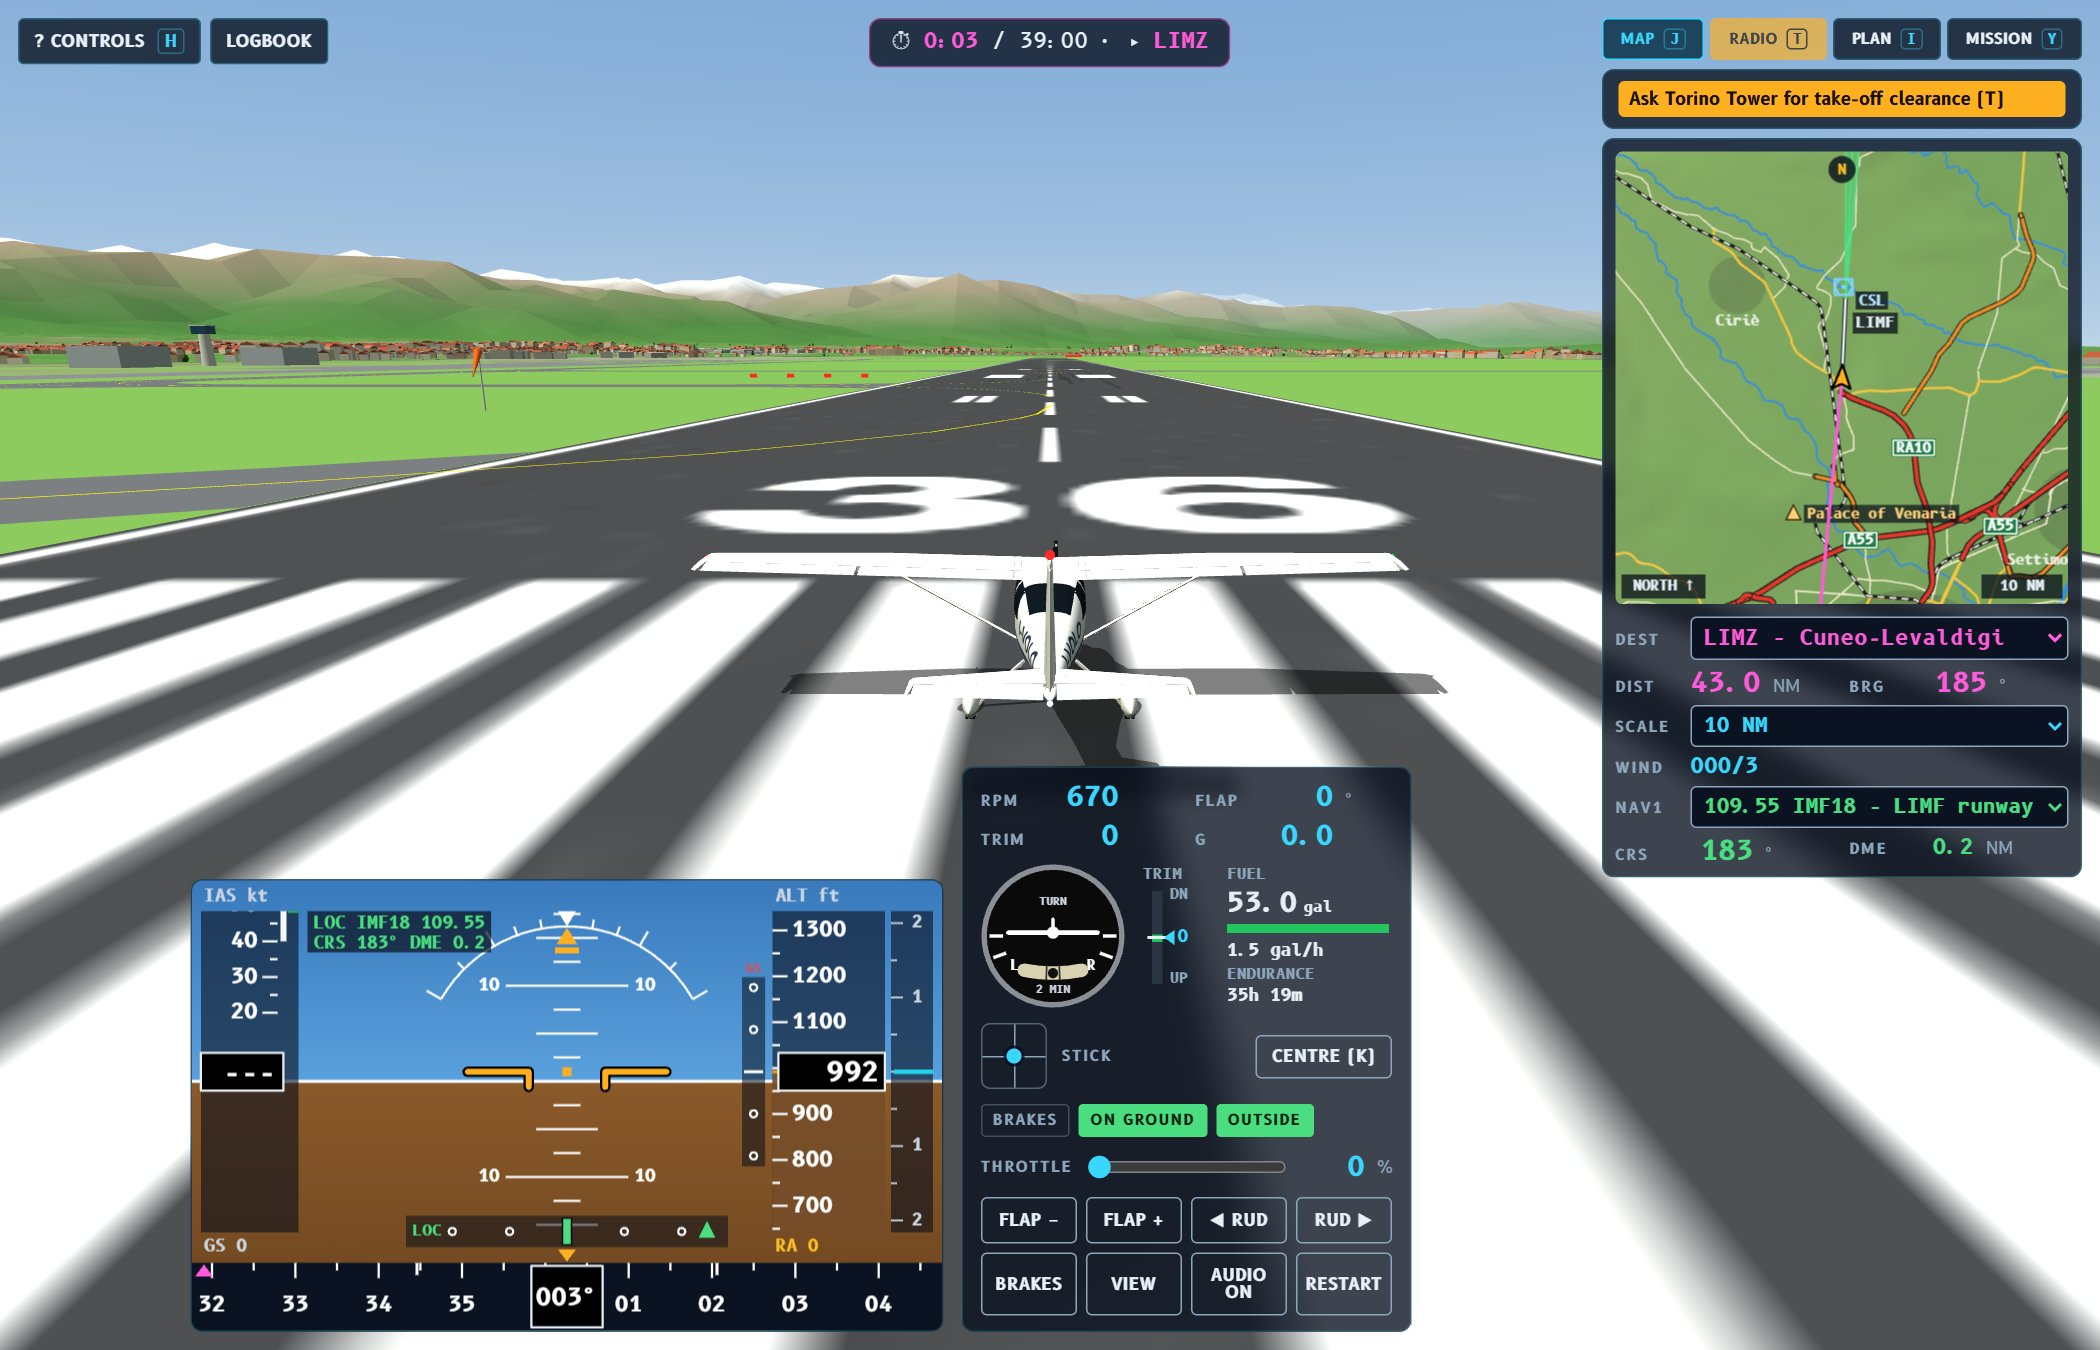
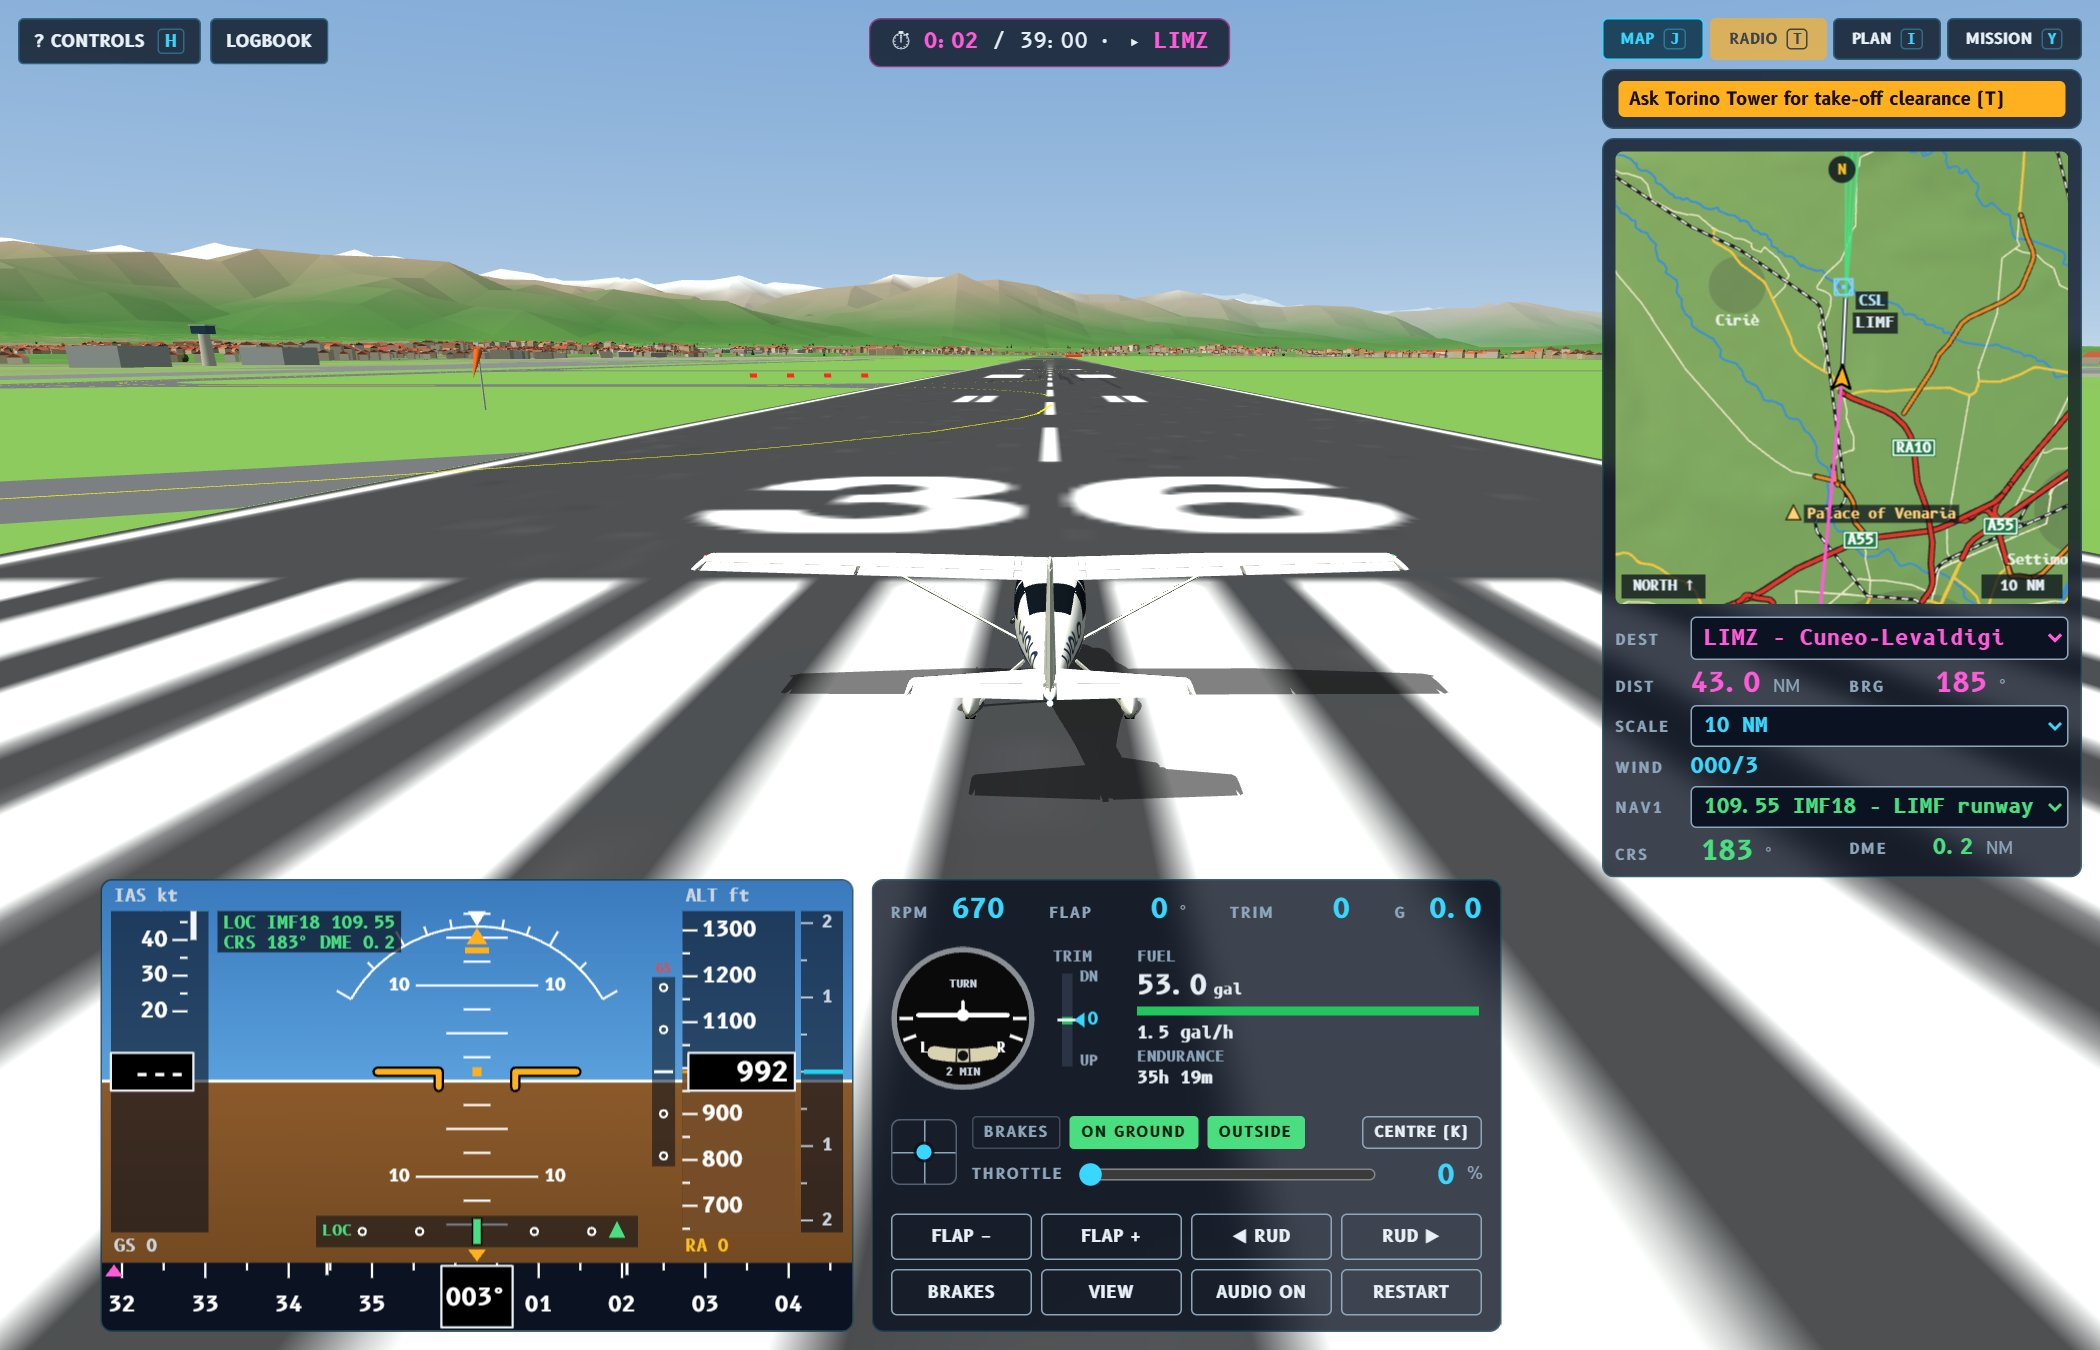
Pannello motore alto quanto il PFD
Il pannello in basso a destra del PFD diventa più largo e basso: giri, flap,
trim e g su una riga, poi virosbandometro, trim e carburante, la cloche
accanto a spie e manetta e gli 8 pulsanti su due file. PFD e pannello hanno
la stessa altezza (align-items: stretch); sugli schermi più stretti il PFD
si rimpicciolisce per lasciare posto al pannello. Immagini dei manuali
aggiornate.

Changed region(s): [[0.031, 0.56, 0.7429, 0.9956]]

diff --git a/css/stile.css b/css/stile.css
@@ -135,14 +135,20 @@ a.istr{display:inline-block;margin-top:8px;color:var(--cyan);font-weight:700;poi
 .msg b{color:var(--cyan)}
 
 /* fascia bassa */
-.basso{position:absolute;left:12px;right:12px;bottom:calc(12px + env(safe-area-inset-bottom,0px));display:flex;justify-content:center;align-items:flex-end;gap:12px;pointer-events:none}
+.basso{position:absolute;left:12px;right:12px;bottom:calc(12px + env(safe-area-inset-bottom,0px));display:flex;justify-content:center;align-items:stretch;gap:12px;pointer-events:none}
 .basso .hud{position:relative}
 /* sugli schermi larghi gli strumenti in basso stanno a sinistra della colonna di destra */
-@media (min-width:1170px){.basso{right:344px}}
-.pfdbox{padding:0;overflow:hidden}
+/* PFD e pannello motore alti uguali (align-items:stretch): il pannello è largo e basso */
+.pfdbox{padding:0;overflow:hidden;display:flex;align-items:center}
 #pfd{display:block;width:min(500px,calc(100vw - 24px));aspect-ratio:5/3;height:auto}
-.sys{display:grid;gap:10px;width:300px;pointer-events:auto}
-.sys .griglia{display:grid;grid-template-columns:1fr 1fr;gap:8px 12px}
+.sys{display:grid;gap:8px;width:420px;align-content:space-between;pointer-events:auto}
+.sys .griglia{display:grid;grid-template-columns:repeat(4,auto);justify-content:space-between;gap:8px 10px}
+.sys .griglia .lbl{min-width:0}
+.sys{flex:none}
+/* (dopo #pfd) sugli schermi larghi il PFD si stringe un po' se non c'è posto per tutti e due i riquadri */
+@media (min-width:1170px){.basso{right:344px}#pfd{width:min(500px,calc(100vw - 788px))}}
+@media (min-width:861px) and (max-width:1169px){#pfd{width:min(500px,calc(100vw - 456px))}}
+
 .aux{display:block;width:100%;height:96px}
 .spie{display:flex;gap:6px;flex-wrap:wrap}
 .spia{font:700 10px/1 var(--f-ui);letter-spacing:.1em;padding:5px 7px;border-radius:3px;border:1px solid rgba(142,166,187,.35);color:var(--dim)}
@@ -222,7 +228,8 @@ button.piccolo{padding:5px 8px;font-size:10px;margin-left:4px}
 .card .azioni{display:flex;gap:10px;flex-wrap:wrap;align-items:center}
 .card .azioni button:not(.primario){padding:12px 14px;font-size:12px}
 .riga-cloche{display:flex;align-items:center;gap:10px}
-.riga-cloche button{margin-left:auto;padding:8px 10px}
+.cloche-dx{flex:1;min-width:0;display:grid;gap:7px}
+.spie button{margin-left:auto;padding:5px 8px;font-size:10px}
 .cloche-ind{position:relative;width:44px;height:44px;border:1px solid rgba(142,166,187,.5);border-radius:6px;flex:none;
   background:linear-gradient(var(--dim),var(--dim)) center/1px 100% no-repeat,linear-gradient(var(--dim),var(--dim)) center/100% 1px no-repeat}
 .cloche-ind i{position:absolute;left:50%;top:50%;width:10px;height:10px;margin:-5px 0 0 -5px;border-radius:50%;background:var(--cyan);box-shadow:0 0 0 2px rgba(8,16,30,.8)}

diff --git a/index.html b/index.html
@@ -121,21 +121,23 @@
         <div class="row"><span class="lbl">G</span><span id="gload" class="val">1.0</span></div>
       </div>
       <canvas id="aux" class="aux" aria-label="Virosbandometro, trim e carburante" data-en-aria="Turn coordinator, trim and fuel"></canvas>
+      <!-- cloche accanto a spie e manetta: il pannello resta alto quanto il PFD -->
       <div class="riga-cloche">
         <div class="cloche-ind" title="Posizione della cloche: in basso = tirata (cabra)" data-en-title="Stick position: down = pulled back (nose up)"><i id="puntoCloche"></i></div>
-        <span class="lbl" data-en="STICK">CLOCHE</span>
-        <button type="button" data-azione="centra" title="Riporta la cloche al centro (K)" data-en-title="Centre the stick (K)" data-en="CENTRE (K)">CENTRA (K)</button>
+        <div class="cloche-dx">
+          <div class="spie">
+            <span id="spiaFreni" class="spia" data-en="BRAKES">FRENI</span>
+            <span id="spiaTerra" class="spia" data-en="ON GROUND">A TERRA</span>
+            <span id="spiaVista" class="spia on">ESTERNA</span>
+            <button type="button" data-azione="centra" title="Riporta la cloche al centro (K)" data-en-title="Centre the stick (K)" data-en="CENTRE (K)">CENTRA (K)</button>
+          </div>
+          <label class="manetta" for="thr">
+            <span class="lbl" data-en="THROTTLE">MANETTA</span>
+            <input id="thr" type="range" min="0" max="100" value="0" aria-label="Manetta" data-en-aria="Throttle">
+            <span id="thrv" class="val">0</span><span class="unit">%</span>
+          </label>
+        </div>
       </div>
-      <div class="spie">
-        <span id="spiaFreni" class="spia" data-en="BRAKES">FRENI</span>
-        <span id="spiaTerra" class="spia" data-en="ON GROUND">A TERRA</span>
-        <span id="spiaVista" class="spia on">ESTERNA</span>
-      </div>
-      <label class="manetta" for="thr">
-        <span class="lbl" data-en="THROTTLE">MANETTA</span>
-        <input id="thr" type="range" min="0" max="100" value="0" aria-label="Manetta" data-en-aria="Throttle">
-        <span id="thrv" class="val">0</span><span class="unit">%</span>
-      </label>
       <div class="bottoni">
         <button type="button" data-azione="flapsu" title="Flap su (G)" data-en-title="Flaps up (G)">FLAP −</button>
         <button type="button" data-azione="flapgiu" title="Flap giù (F)" data-en-title="Flaps down (F)">FLAP +</button>

diff --git a/istruzioni.html b/istruzioni.html
@@ -161,7 +161,7 @@ footer{margin-top:60px;color:var(--dim);font-size:14px}
 <div class="nota">Il gioco non usa mai il tasto <kbd>Ctrl</kbd>: con <kbd>Ctrl</kbd>+<kbd>W</kbd> il browser chiuderebbe la scheda nel mezzo di una picchiata.</div>
 
 <h3>Come si muove la cloche dalla tastiera</h3>
-<p>Tenendo premuto <kbd>W</kbd> o <kbd>S</kbd> la cloche si sposta poco alla volta. Quando lasci il tasto, normalmente <b>resta dove l'hai lasciata</b>, come un pilota che la tiene ferma. La posizione si vede nel quadratino <b>CLOCHE</b> del pannello in basso: il punto in basso significa cloche tirata.</p>
+<p>Tenendo premuto <kbd>W</kbd> o <kbd>S</kbd> la cloche si sposta poco alla volta. Quando lasci il tasto, normalmente <b>resta dove l'hai lasciata</b>, come un pilota che la tiene ferma. La posizione si vede nel quadratino con il mirino del pannello in basso, a sinistra della manetta: il punto in basso significa cloche tirata.</p>
 <p>Nella finestra <b>COMANDI</b> (<kbd>H</kbd> o il pulsante in alto a sinistra) ci sono due regolazioni, che il gioco ricorda:</p>
 <ul>
   <li><b>Sensibilità cloche</b> (1–10, di serie 5): più è bassa, più i comandi sono dolci vicino al centro e più lentamente i tasti muovono la cloche. A fondo corsa resta sempre tutta l'escursione.</li>

diff --git a/istruzioni-en.html b/istruzioni-en.html
@@ -161,7 +161,7 @@ footer{margin-top:60px;color:var(--dim);font-size:14px}
 <div class="nota">The game never uses the <kbd>Ctrl</kbd> key: <kbd>Ctrl</kbd>+<kbd>W</kbd> would close the browser tab in the middle of a dive.</div>
 
 <h3>How the keyboard moves the stick</h3>
-<p>While you hold <kbd>W</kbd> or <kbd>S</kbd> the stick moves little by little. When you release the key it normally <b>stays where you left it</b>, like a pilot holding it still. You can see its position in the small <b>STICK</b> square of the bottom panel: the dot low down means the stick is pulled back.</p>
+<p>While you hold <kbd>W</kbd> or <kbd>S</kbd> the stick moves little by little. When you release the key it normally <b>stays where you left it</b>, like a pilot holding it still. You can see its position in the small square with the cross-hair in the bottom panel, left of the throttle: the dot low down means the stick is pulled back.</p>
 <p>The <b>CONTROLS</b> window (<kbd>H</kbd> or the button at the top left) has two settings, which the game remembers:</p>
 <ul>
   <li><b>Stick sensitivity</b> (1–10, default 5): the lower it is, the softer the controls near the centre and the slower the keys move the stick. At full deflection you always have the full range.</li>
